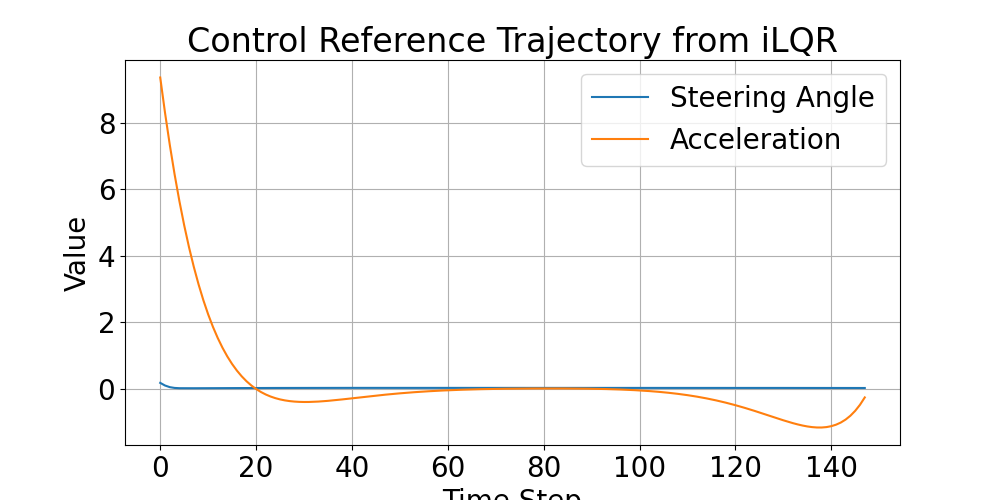
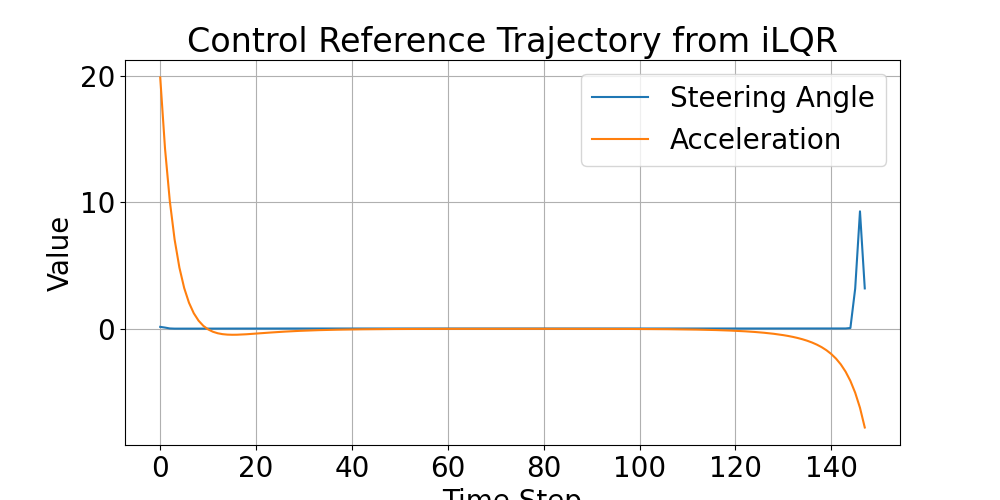
Messed with some parameters to optimize ref trajectory

diff --git a/lecture_8_method.py b/lecture_8_method.py
@@ -282,8 +282,8 @@ dt = 0.1
 params = {'lr': 1.0, 'lf': 1.0, 'dt': dt, 'R': 100.0}
 Q = 1.0e1 * np.array([[1, 0, 0, 0], [0, 1, 0, 0], [0, 0, 1, 0], [0, 0, 0, 1]])
 R = 1.0e1 * np.array([[1, 0], [0, 1]])
-QN = 1.0e1 * np.array([[1, 0, 0, 0], [0, 1, 0, 0], [0, 0, 1, 0], [0, 0, 0, 1]])
-T = 15.0  # simulation time (decreasing makes car understeer)
+QN = 1.0e2 * np.array([[1, 0, 0, 0], [0, 1, 0, 0], [0, 0, 1, 0], [0, 0, 0, 1]])
+T = 20.0  # simulation time (decreasing makes car understeer)
 t = np.arange(0.0, T, dt)
 N = t.size - 1
 
@@ -325,15 +325,24 @@ plt.grid(True)
 plt.savefig('trajectory.png')
 plt.show()
 
-# Plot the control trajectory
+# Plot the control trajectories
 plt.figure(figsize=(10, 5))
-plt.plot(delta_f, label='Steering Angle')
-plt.plot(a, label='Acceleration')
+plt.plot(delta_f * 180 / np.pi, label='Steering Angle')
 plt.xlabel('Time Step')
-plt.ylabel('Value')
-plt.title('Control Reference Trajectory from iLQR')
+plt.ylabel('delta_f (degrees)')
+plt.title('Steering Angle Reference Trajectory from iLQR')
 plt.legend()
 plt.grid(True)
-plt.savefig('control_trajectory.png')
+plt.savefig('steering_angle_trajectory.png')
+plt.show()
+
+plt.figure(figsize=(10, 5))
+plt.plot(a, label='Acceleration')
+plt.xlabel('Time Step')
+plt.ylabel('Acceleration (m/s^2)')
+plt.title('Acceleration Reference Trajectory from iLQR')
+plt.legend()
+plt.grid(True)
+plt.savefig('acceleration_trajectory.png')
 plt.show()
 
